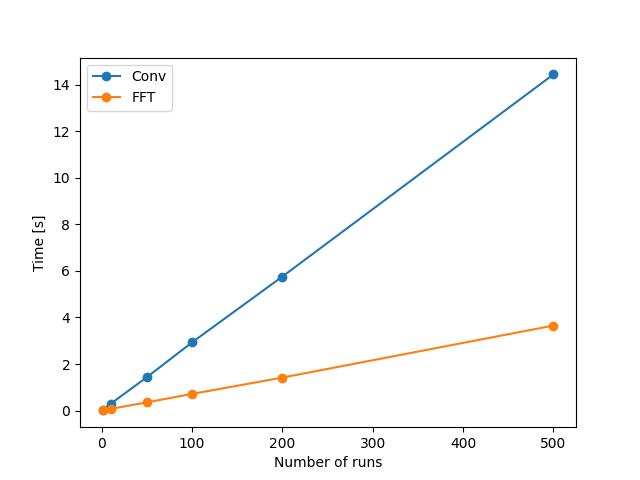
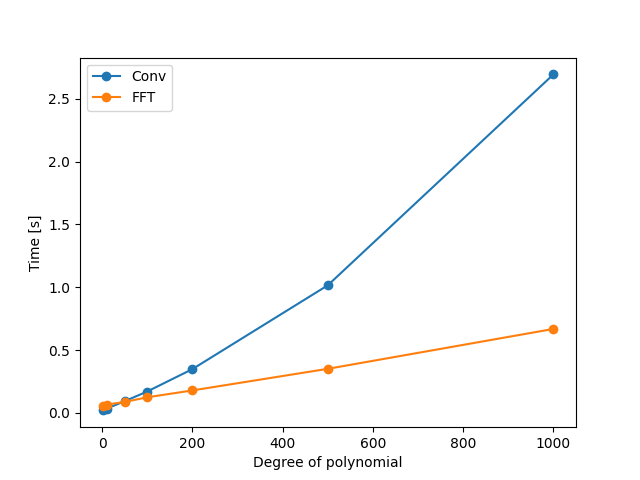
Time comparison: fft vs conv fix

diff --git a/main.py b/main.py
@@ -9,7 +9,7 @@ from polynomial_algebra import PolynomialMatrix
 from polynomial_multiplication_fft import multiply_polynomials
 
 
-# np.random.seed(42)
+np.random.seed(42)
 
 
 def demo_polynomial_matrices() -> None:
@@ -42,7 +42,7 @@ def demo_kyber_pke() -> None:
     """Show how KyberPKE class works."""
 
     # Alice
-    kyber = KyberPKE(n=1024, eta1=3)  # changing the eta can induce errors
+    kyber = KyberPKE(n=1024, eta2=8)  # changing the eta can induce errors
     public_key, private_key = kyber.generate_keys()
     print('Public key:')
     print(public_key)
@@ -84,8 +84,8 @@ def test_polynomial_multiplication_fft() -> None:
     print(result)
 
 
-def run_kyber_pke() -> None:
-    kyber = KyberPKE(n=1024, eta1=3)
+def run_kyber_pke(n: int = 1024) -> None:
+    kyber = KyberPKE(n, eta1=3)
     public_key, private_key = kyber.generate_keys()
     message = "Who's the monster?"
     encrypted_message = kyber.encrypt_message(message, public_key)
@@ -93,43 +93,45 @@ def run_kyber_pke() -> None:
 
 
 def check_times() -> None:
+    n = 1000
     polynomial_algebra.USE_DFT_INSTEAD_OF_CONVOLUTION = False
-    t = timeit(run_kyber_pke, number=500)
+    t = timeit(lambda: run_kyber_pke(n), number=100)
     print('Convolution:')
     print(round(t, 3), "s")
 
     polynomial_algebra.USE_DFT_INSTEAD_OF_CONVOLUTION = True
-    t = timeit(run_kyber_pke, number=500)
+    t = timeit(lambda: run_kyber_pke(n), number=100)
     print('FFT:')
     print(round(t, 3), "s")
 
 
 def plot_times() -> None:
-    runs = [1, 10, 50, 100, 200, 500]
+    degrees = [1, 10, 50, 100, 200, 500, 1000]
     conv_times = np.array([])
     fft_times = np.array([])
 
-    for n_runs in runs:
+    for n in degrees:
         polynomial_algebra.USE_DFT_INSTEAD_OF_CONVOLUTION = False
-        conv_time = timeit(run_kyber_pke, number=n_runs)
+        conv_time = timeit(lambda: run_kyber_pke(n), number=100)
         polynomial_algebra.USE_DFT_INSTEAD_OF_CONVOLUTION = True
-        fft_time = timeit(run_kyber_pke, number=n_runs)
+        fft_time = timeit(lambda: run_kyber_pke(n), number=100)
 
         conv_times = np.append(conv_times, conv_time)
         fft_times = np.append(fft_times, fft_time)
 
-    plt.plot(runs, conv_times, label='Conv', marker='o')
-    plt.plot(runs, fft_times, label='FFT', marker='o')
+    plt.plot(degrees, conv_times, label='Conv', marker='o')
+    plt.plot(degrees, fft_times, label='FFT', marker='o')
     plt.legend()
-    plt.xlabel('Number of runs')
+    plt.xlabel('Degree of polynomial')
     plt.ylabel('Time [s]')
     plt.savefig('times.png')
 
 
 if __name__ == '__main__':
     # demo_polynomial_matrices()
-    # demo_kyber_pke()
     # test_operations()
     # test_polynomial_multiplication_fft()
-    check_times()
-    # plot_times()
+    # check_times()
+
+    # demo_kyber_pke()
+    plot_times()
